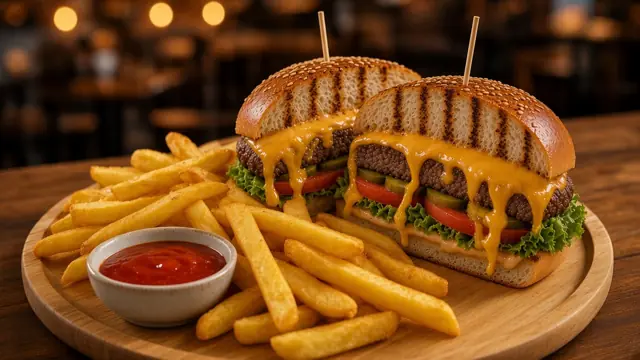
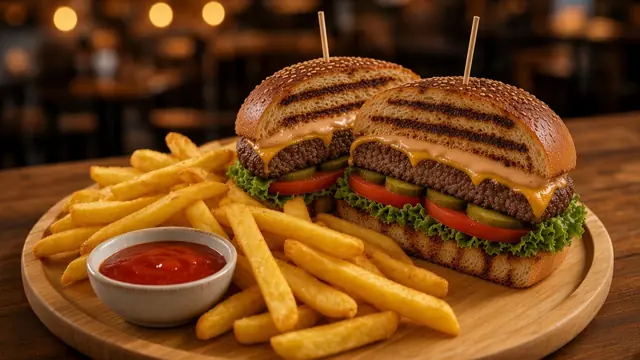
Hamburger görseli: önceki görsel, hamburger komple ızgarada kızartılmış

Changed region(s): [[0.3438, 0.1528, 0.9062, 0.7944]]

diff --git a/index.html b/index.html
@@ -13,7 +13,7 @@
      3) Alttaki JSON-LD içindeki "url" ve "image" alanlarına da aynı adresi ekleyin.
 <link rel="canonical" href="https://ALAN-ADI/">
 <meta property="og:url" content="https://ALAN-ADI/">
-<meta property="og:image" content="https://ALAN-ADI/img/hero-hamburger.webp?v=4">
+<meta property="og:image" content="https://ALAN-ADI/img/hero-hamburger.webp?v=5">
      ================================================================ -->
 <meta property="og:type" content="restaurant">
 <meta property="og:locale" content="tr_TR">
@@ -24,8 +24,8 @@
 <link rel="preconnect" href="https://fonts.googleapis.com">
 <link rel="preconnect" href="https://fonts.gstatic.com" crossorigin>
 <link rel="stylesheet" href="https://fonts.googleapis.com/css2?family=Bricolage+Grotesque:opsz,wght@12..96,500;12..96,700;12..96,800&family=Inter:wght@400;500;600;700&display=swap">
-<link rel="preload" as="image" href="img/hero-hamburger.webp?v=4" imagesrcset="img/hero-hamburger-640.webp?v=4 640w, img/hero-hamburger.webp?v=4 1280w" imagesizes="100vw">
-<link rel="stylesheet" href="assets/site.css?v=4">
+<link rel="preload" as="image" href="img/hero-hamburger.webp?v=5" imagesrcset="img/hero-hamburger-640.webp?v=5 640w, img/hero-hamburger.webp?v=5 1280w" imagesizes="100vw">
+<link rel="stylesheet" href="assets/site.css?v=5">
 <script>if(/[?&]shoot=1/.test(location.search))document.documentElement.classList.add('shoot');document.documentElement.classList.add('js');</script>
 <script type="application/ld+json">
 {
@@ -79,8 +79,8 @@
   <!-- HERO -->
   <section class="hero" aria-labelledby="hero-h">
     <picture class="hero__bg">
-      <source type="image/webp" srcset="img/hero-hamburger-640.webp?v=4 640w, img/hero-hamburger.webp?v=4 1280w" sizes="100vw">
-      <img src="img/hero-hamburger.webp?v=4" alt="Izgarada kızartılmış ekmekli, cheddarlı hamburger ve patates" width="1280" height="720" fetchpriority="high">
+      <source type="image/webp" srcset="img/hero-hamburger-640.webp?v=5 640w, img/hero-hamburger.webp?v=5 1280w" sizes="100vw">
+      <img src="img/hero-hamburger.webp?v=5" alt="Izgarada kızartılmış ekmekli, cheddarlı hamburger ve patates" width="1280" height="720" fetchpriority="high">
     </picture>
     <div class="hero__shade" aria-hidden="true"></div>
     <div class="wrap hero__in">
@@ -115,7 +115,7 @@
   <section class="section signature" id="imza" aria-labelledby="imza-h">
     <div class="wrap signature__in">
       <figure class="signature__media reveal">
-        <img src="img/hero-hamburger.webp?v=4" srcset="img/hero-hamburger-640.webp?v=4 640w, img/hero-hamburger.webp?v=4 1280w" sizes="(min-width: 900px) 55vw, 100vw" alt="Ekmeği ızgarada kızartılmış, özel soslu, marul, domates, turşu, köfte ve cheddarlı hamburger, yanında patates" width="1280" height="720" loading="lazy" decoding="async">
+        <img src="img/hero-hamburger.webp?v=5" srcset="img/hero-hamburger-640.webp?v=5 640w, img/hero-hamburger.webp?v=5 1280w" sizes="(min-width: 900px) 55vw, 100vw" alt="Ekmeği ızgarada kızartılmış, özel soslu, marul, domates, turşu, köfte ve cheddarlı hamburger, yanında patates" width="1280" height="720" loading="lazy" decoding="async">
         <span class="stamp" aria-hidden="true">İmza<br>Lezzet</span>
       </figure>
       <div class="signature__text reveal">
@@ -329,6 +329,6 @@
 <div class="toast" id="toast" role="status" aria-live="polite"></div>
 
 <script src="assets/main.js" defer></script>
-<script src="assets/order.js?v=4" defer></script>
+<script src="assets/order.js?v=5" defer></script>
 </body>
 </html>

diff --git a/assets/order.js b/assets/order.js
@@ -5,7 +5,7 @@
   var WA_NUMBER='905426477210';
   var KEY='maminin-yeri-sepet-v1';
   var FOOD=[
-    {id:'hamburger',name:'Hamburger + patates',img:'hero-hamburger',tag:'İmza',v:4},
+    {id:'hamburger',name:'Hamburger + patates',img:'hero-hamburger',tag:'İmza',v:5},
     {id:'balik',name:'Balık ekmek',img:'balik-ekmek'},
     {id:'kofte',name:'Köfte ekmek',img:'kofte-ekmek'},
     {id:'sucuk',name:'Sucuk ekmek',img:'sucuk-ekmek'},
